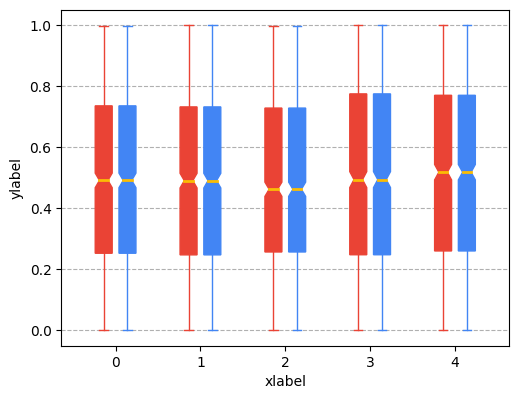
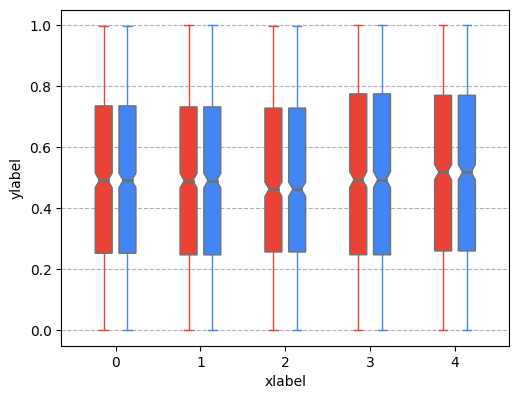
update boxplot

diff --git a/fig3.py b/fig3.py
@@ -15,6 +15,7 @@ if __name__ == "__main__":
 	np.random.seed(0)
 	n = 5
 	data_mat = np.random.rand(1000,n)
+	#style.change_hatch_color('#707070')
 	args = {
 		'notch':True,
 		'whis':1.5,
@@ -28,8 +29,10 @@ if __name__ == "__main__":
 		'boxprops':{
 			#'facecolor':style.google_colors[1],
 			#'facecolor':"None",
-			'edgecolor':style.google_colors[1],
-			'facecolor':style.google_colors[1]
+			'facecolor':style.google_colors[1],
+			'edgecolor':"#707070",
+			#'color': "None",
+			#'hatch':'/',
 			},
 		'whiskerprops':{
 			'color':style.google_colors[1],
@@ -39,7 +42,7 @@ if __name__ == "__main__":
 			'color':style.google_colors[1],
 		},
 		'medianprops':{
-			'c':style.google_colors[2],
+			'c': '#707070',
 			'lw':2,
 			},
 		"widths":0.2,
@@ -49,7 +52,7 @@ if __name__ == "__main__":
 	range_ = np.arange(n)
 	offset = 0.14
 	ax.boxplot(data_mat, **args, positions=range_+offset)
-	for prop in ['boxprops', 'whiskerprops', 'capprops']:
+	for prop in ['whiskerprops', 'capprops']:
 		args[prop]['color'] = style.google_colors[0]
 	args['boxprops']['facecolor'] = style.google_colors[0]
 

diff --git a/style.py b/style.py
@@ -9,6 +9,9 @@ import matplotlib.pyplot as plt
 import matplotlib as mpl
 
 google_colors = ["#ea4335","#4285f4","#fbbc04","#34a853","#b8dae9","#f4cccc", "#9048B9"]
+def change_hatch_color(c):
+	mpl.rcParams['hatch.color'] = c 
+
 def use_google_style_colors():
 	mpl.rcParams['axes.prop_cycle'] = mpl.cycler(color=google_colors) 
 
